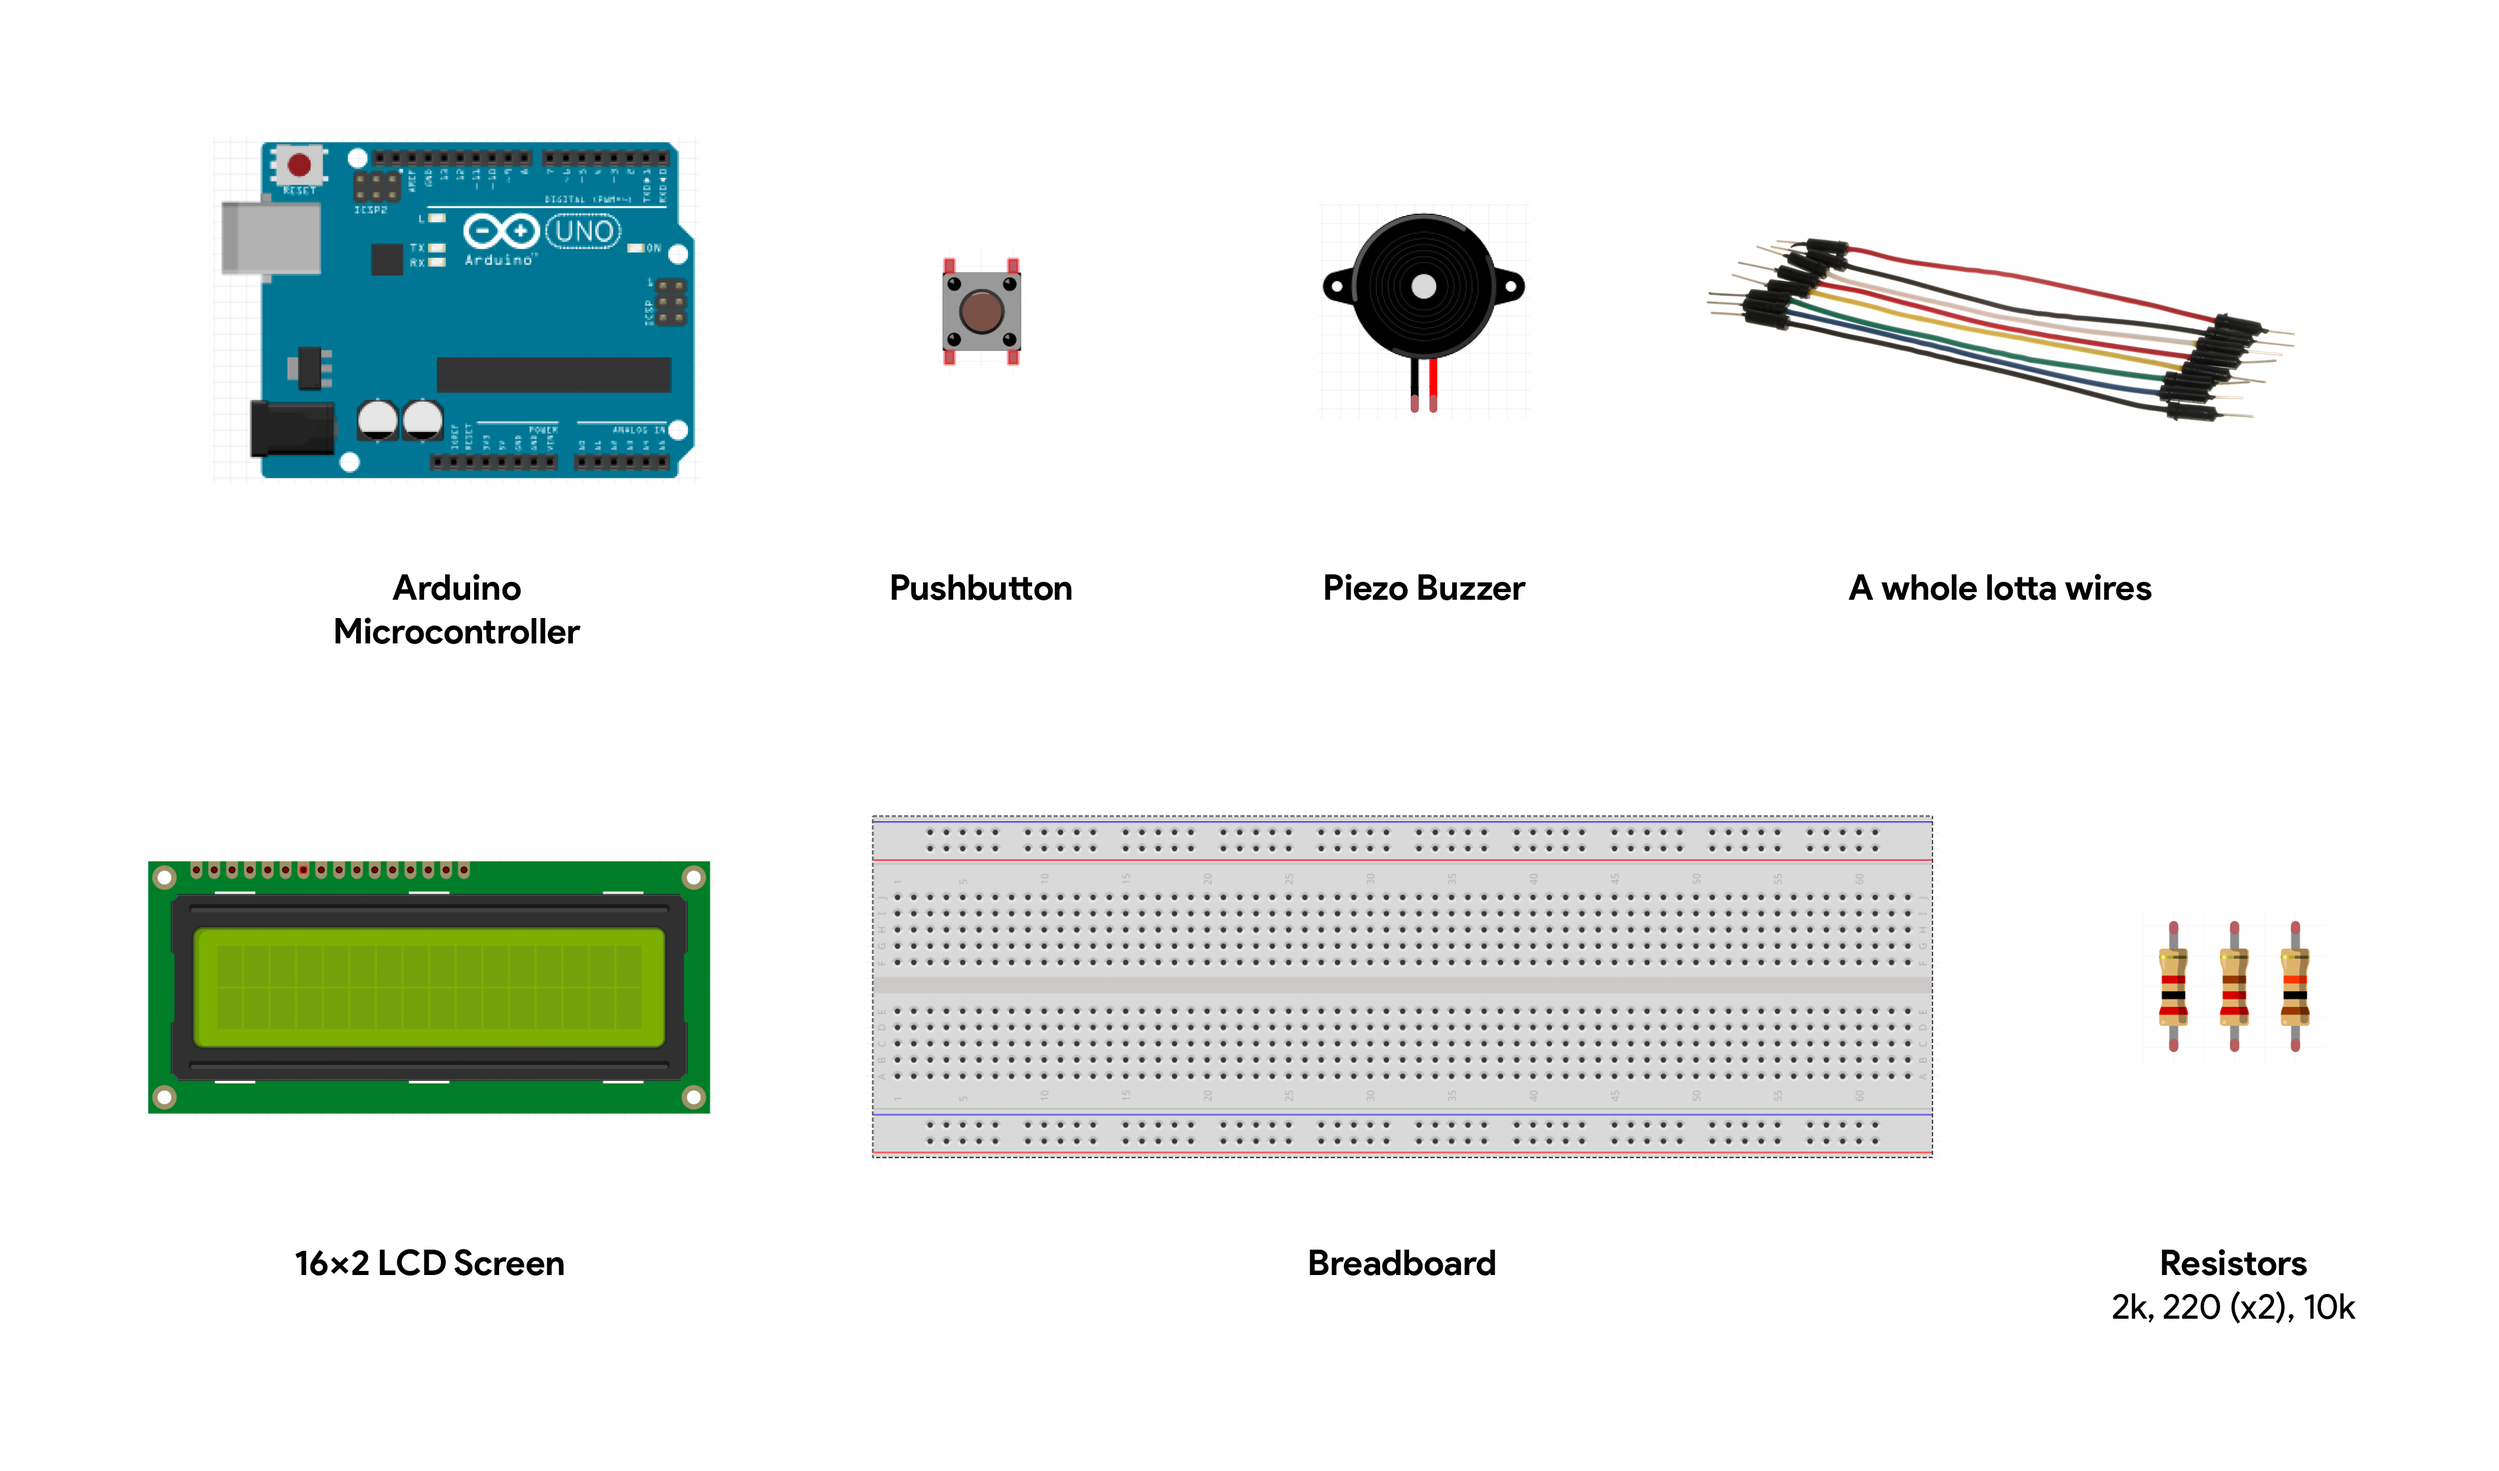
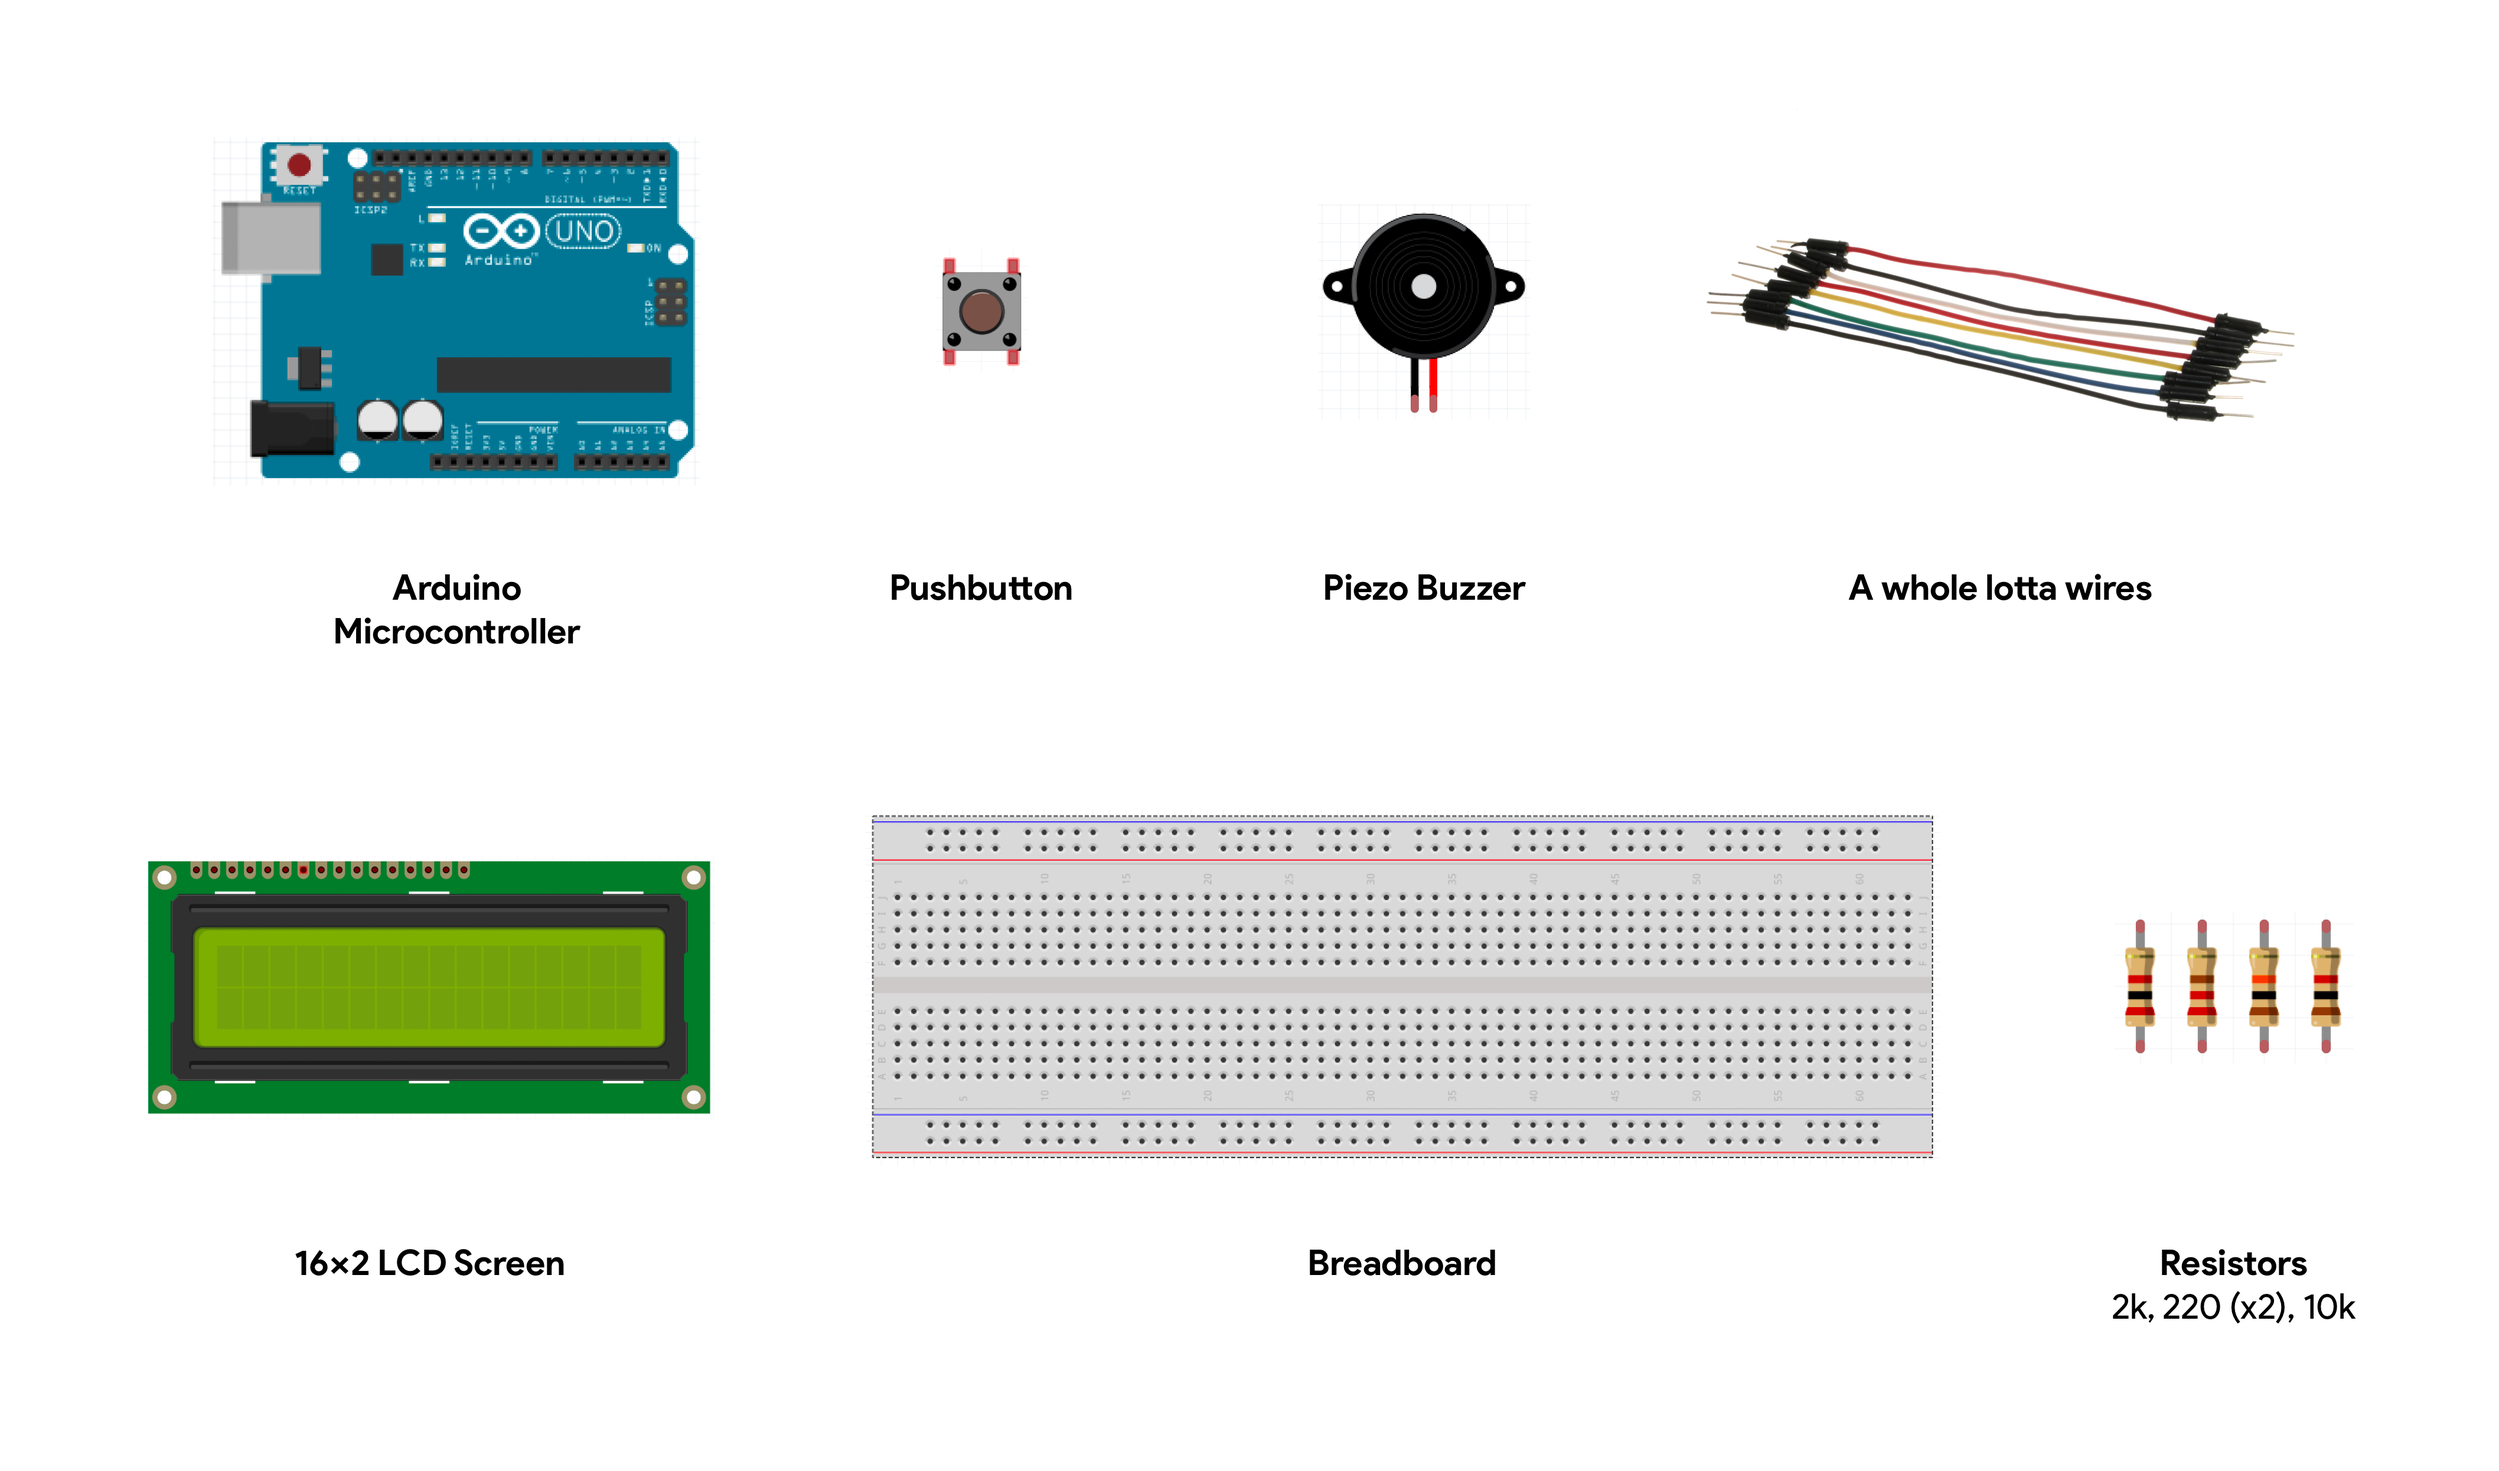
added calc

Changed region(s): [[0.8422, 0.618, 0.9357, 0.7107]]

diff --git a/final.html b/final.html
@@ -51,9 +51,9 @@
               <p>
               My calculations:
               </p>
-              <img src="A8_Scheme.jpg" height=400></a> /* PICTURE OF Calc*/
+              <img src="Final_Calc.jpg" height=400></a>
               <p>
-              I will talk about calculations here!!!!
+              Assuming that 200mA of current can flow through the push button, it is calcuated to require 25 Ohms of resistance, so I used the 10k Ohm resistor. Assuming that 9mA of current can flow through the buzzer, it is calculated that 556 Ohms of resistance is needed. I used a 1k resistor just to be safe. 
               </p>
 
               <p>
@@ -127,7 +127,7 @@
           <p>
           For this project, I used the following materials:
           </p>
-          <img src="Final_Materials.jpg" height=800></a> 
+          <img src="Final_Materials.jpg" height=800></a>
 
           <h4>Demo Video</h4>
             </div>
